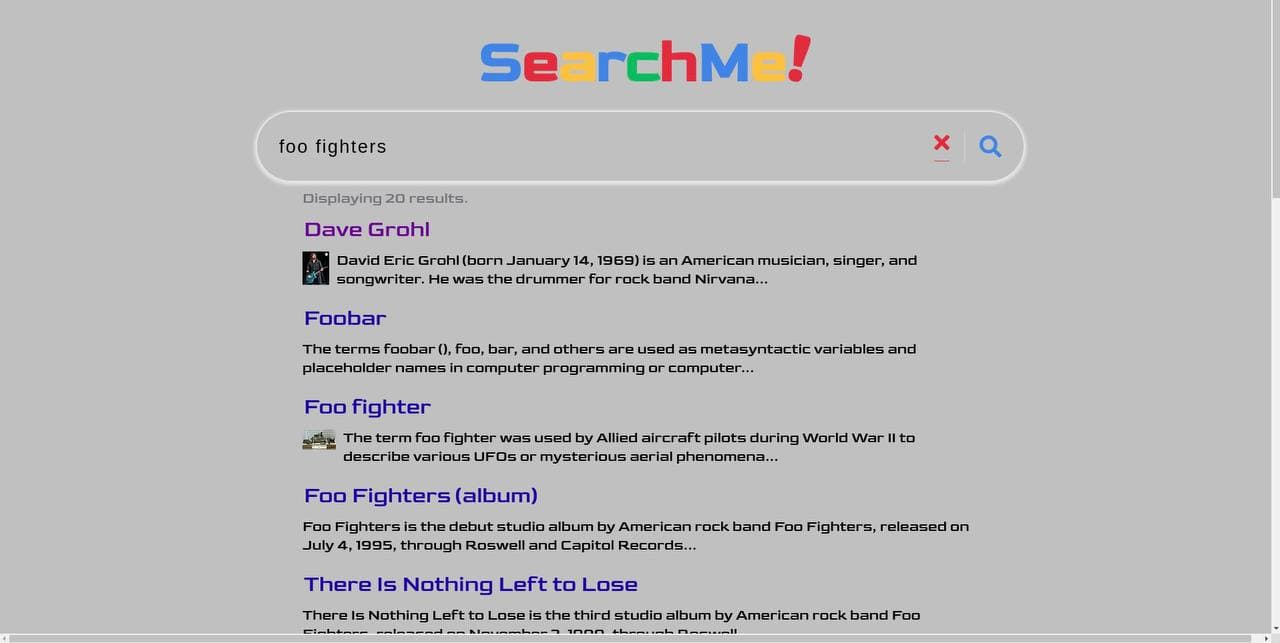
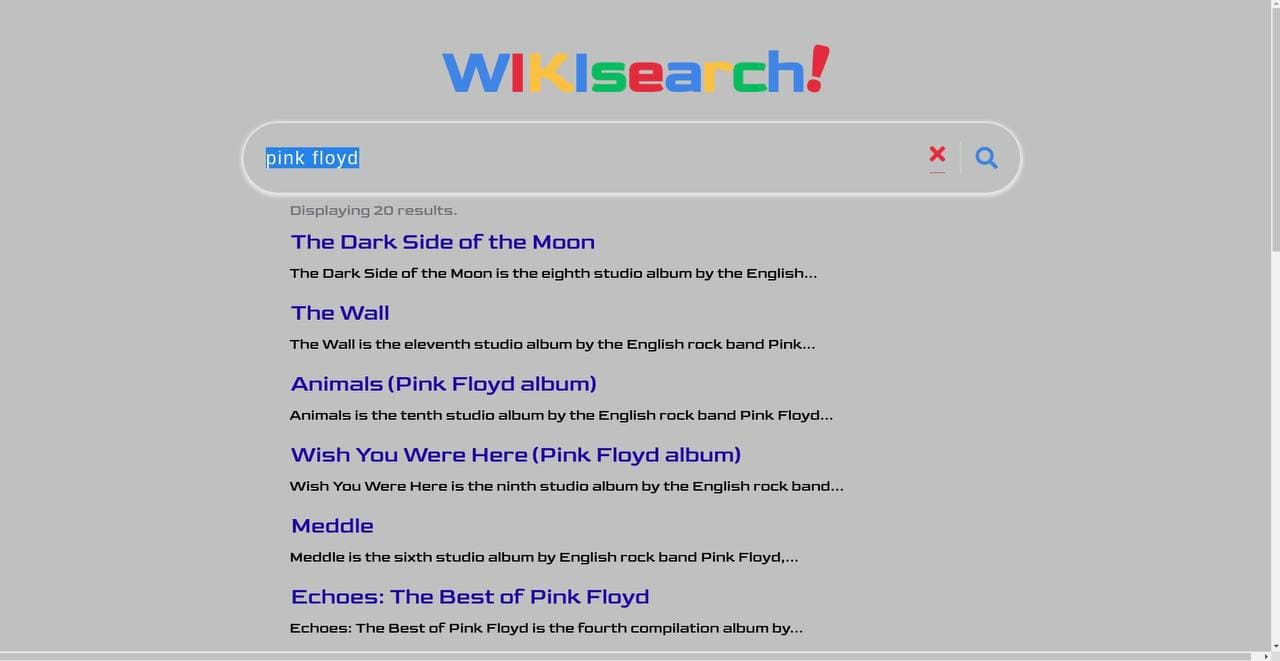
Verified by Cia v1.1.0 clean up

diff --git a/index.html b/index.html
@@ -9,7 +9,7 @@
     <link href="https://fonts.googleapis.com/css2?family=Goldman&display=swap" rel="stylesheet"> <link rel="stylesheet" href="https://cdnjs.cloudflare.com/ajax/libs/hack-font/3.3.0/web/hack.min.css" integrity="sha512-XgCw4Srl8lC1ECwcaHwAU0WnxQwHkqmInzg9wJLtGB7DRuMaXPuK2k9WJ2AwRDGdrgK9eJpZl2hUlLi2WQssmw==" crossorigin="anonymous" />
     <link rel="stylesheet" href="./css/style.css">
     <script src="./js/index.js" type="module"></script>
-    <title>Document</title>
+    <title>WIKIsearch!</title>
 </head>
 
 
@@ -19,14 +19,16 @@
         <section class="searchEntry">
             <h2 class="offscreen">Search Term Entry</h2>
             <div class="logo" aria-hidden="true">
-                <span class="blue">S</span>
+                <span class="blue">W</span>
+                <span class="red">I</span>
+                <span class="yellow">K</span>
+                <span class="blue">I</span>
+                <span class="green">s</span>
                 <span class="red">e</span>
-                <span class="yellow">a</span>
-                <span class="blue">r</span>
+                <span class="blue">a</span>
+                <span class="yellow">r</span>
                 <span class="green">c</span>
-                <span class="red">h</span>
-                <span class="blue">M</span>
-                <span class="yellow">e</span>
+                <span class="blue">h</span>
                 <span class="red exclaim">!</span>
             </div>
             <form id="searchBar" class="searchBar" role="search"> 
